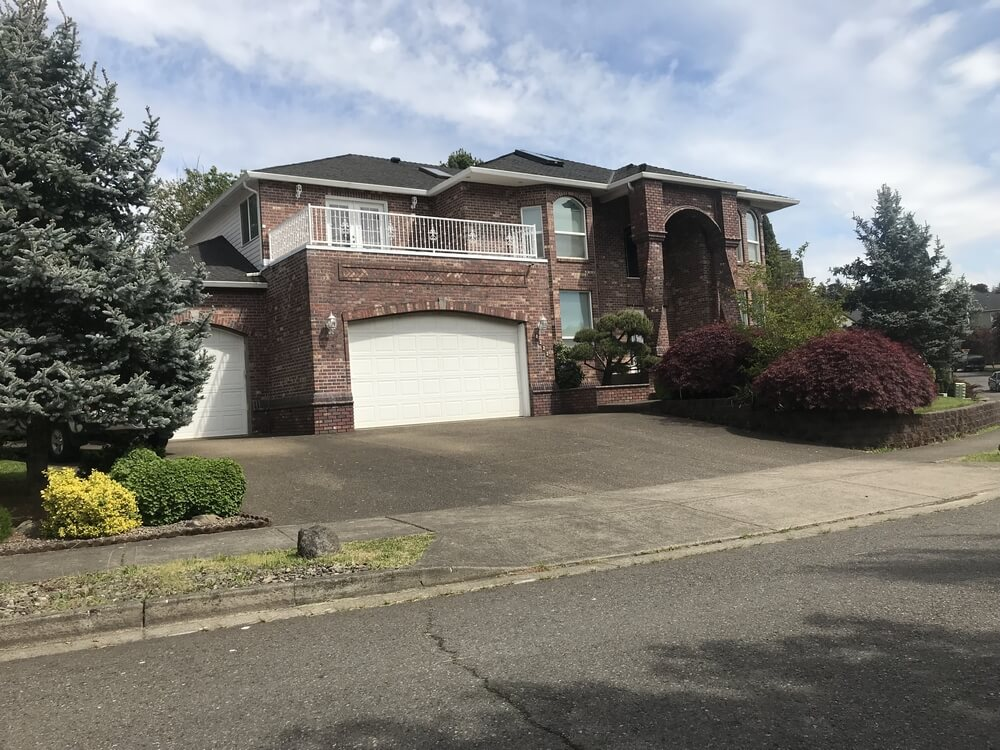
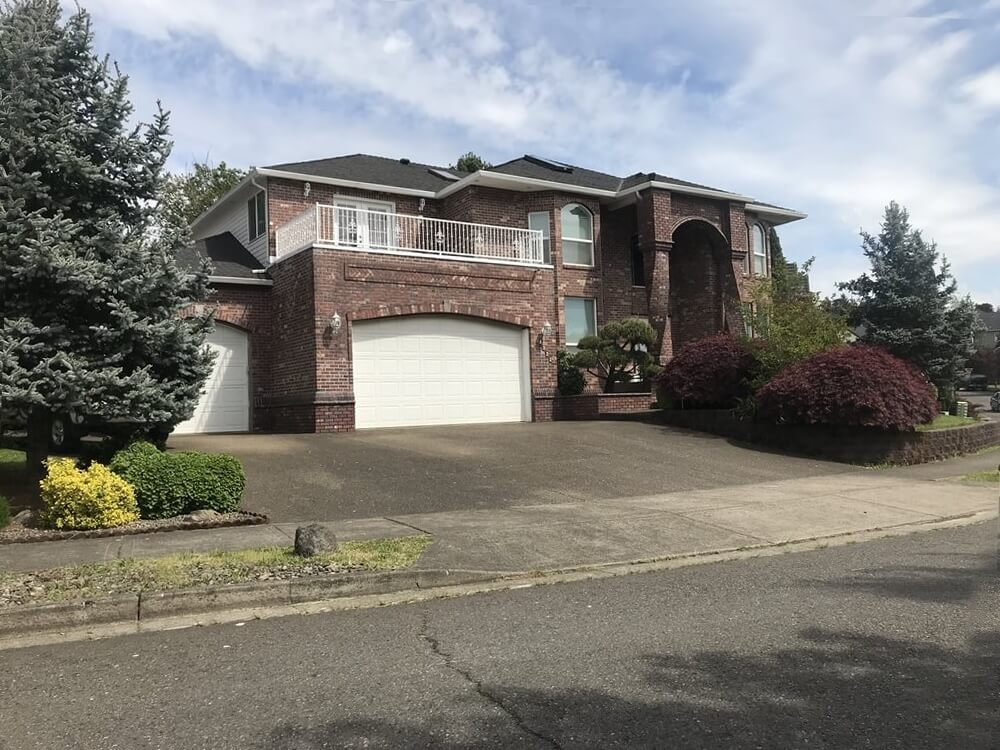
photos edited, removed timemarks, also replacedcouple photos on the front page

diff --git a/src/routes/Home/index.js b/src/routes/Home/index.js
@@ -37,7 +37,7 @@ class Home extends Component{
 
 			<Slider height={ this.sliderHeight } width={this.state.width}>
 			<div>
-			<Parallax height={ this.sliderHeight} width={this.state.width} linkTo="./assets/images/masonry.jpg">
+			<Parallax height={ this.sliderHeight} width={this.state.width} linkTo="./assets/images/projects/8.jpg">
 			<h2 className="projectInfo">Masonry</h2>
 			</Parallax>
 			</div>
